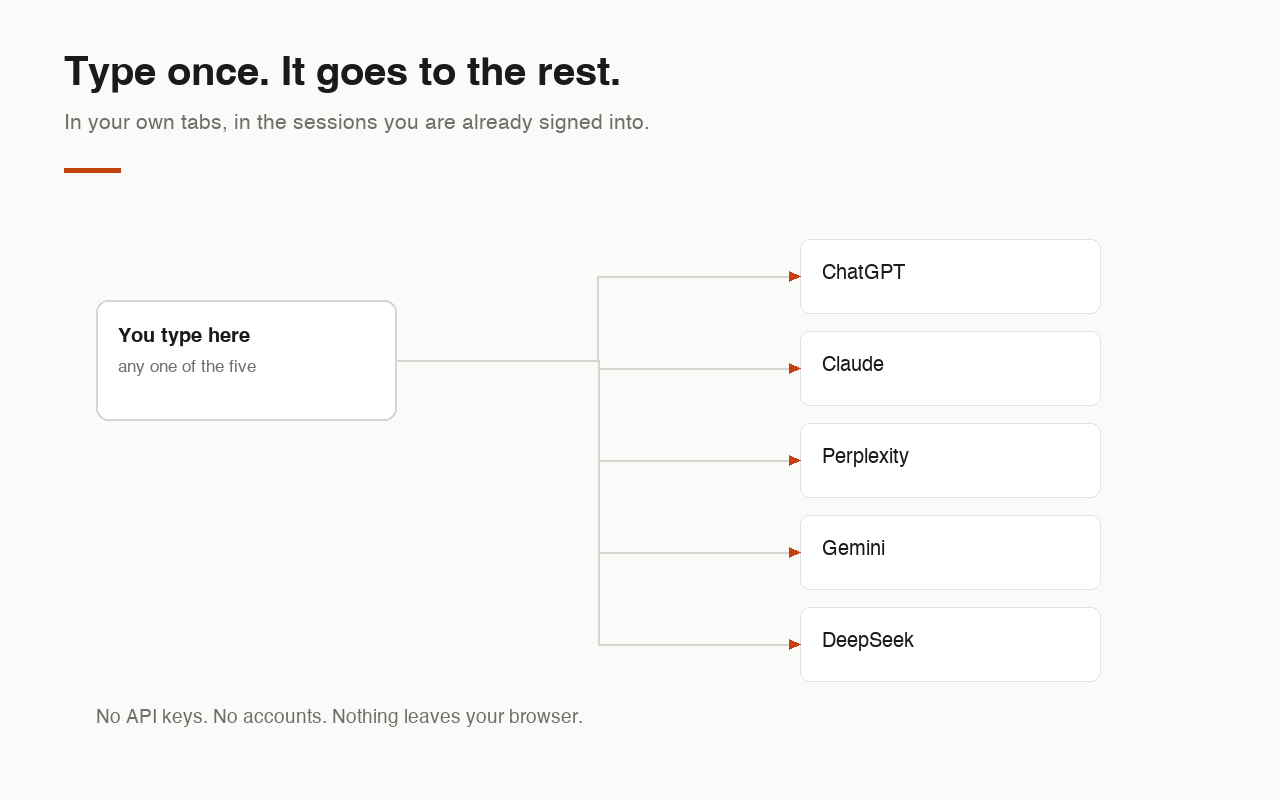
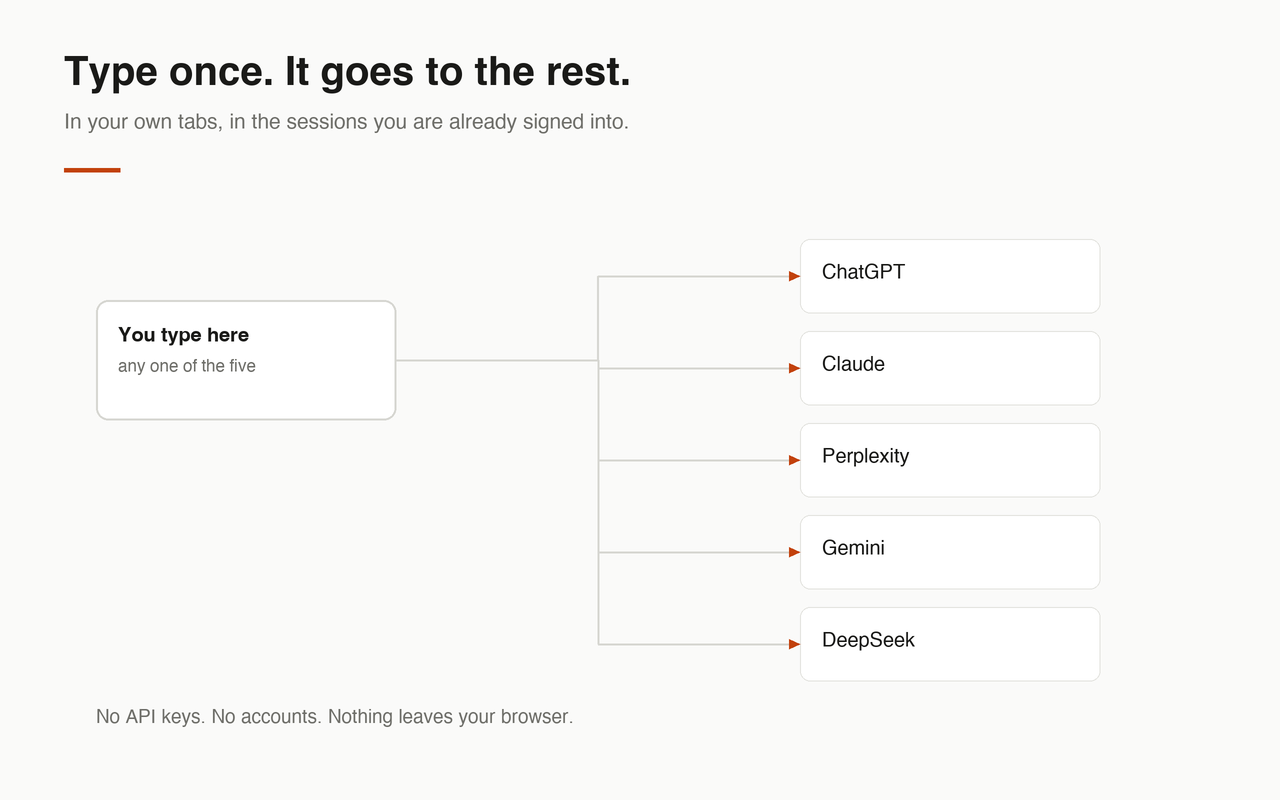
docs: recapture every image at retina resolution
The GIF and the metric shots were soft. The cause was upstream of the encoder:
frames were captured at deviceScaleFactor 1 and then shrunk to roughly a third
of their size in the composition, so the text they exist to show was being
thrown away before the GIF was ever written.

Recaptured at the source instead of sharpening after the fact:

- Broadcast frames at deviceScaleFactor 2 (2560x1600 each), panel at 3
  (1260x2211), fan-out drawn at 2x rather than upscaled from a 1280x800
  raster.
- Metric shots re-cropped from the native 5120px dashboard capture instead of
  being downscaled to 1800px first.
- GIF palette raised to 200 colours; 128 banded the screenshots' soft greys.

Sizes are then capped where the page cannot use the detail: images at 2100px
and the GIF at 1700px, against a 676px render width, so everything sits near
3x — sharp on a retina display without shipping pixels nobody can see. The
page is 2.2MB, and every declared width/height matches its file, so nothing
shifts as images load.

Store frames are composed at 2x and downsampled to the required 1280x800, so
heading text and screenshot get the same resampling and neither looks pasted
onto the other.

Verified in a browser at 1440px: all six load, paint real pixels, and report
2.5-3.1x. The 2x frames are in ../whileai-recordings/, and the rebuild command
including the cap step is documented in scripts/make-demo-gif5.mjs.

diff --git a/index.html b/index.html
@@ -67,17 +67,17 @@
 </header>
 
 <figure class="shot wide">
-  <img src="img/fanout.png" alt="A diagram: you type in any one of the five AI sites, and the prompt fans out to ChatGPT, Claude, Perplexity, Gemini and DeepSeek." width="1600" height="1000" />
+  <img src="img/fanout.png" alt="A diagram: you type in any one of the five AI sites, and the prompt fans out to ChatGPT, Claude, Perplexity, Gemini and DeepSeek." width="2100" height="1312" />
 </figure>
 
 <figure class="shot wide">
-  <img src="img/demo5.gif" alt="A recording of the extension in use: a prompt typed in ChatGPT arrives on its own in Claude, Perplexity, Gemini and DeepSeek, and all five answer." width="1556" height="538" loading="lazy" />
+  <img src="img/demo5.gif" alt="A recording of the extension in use: a prompt typed in ChatGPT arrives on its own in Claude, Perplexity, Gemini and DeepSeek, and all five answer." width="1700" height="607" loading="lazy" />
   <figcaption>Not a mock-up — a recording of the extension running. The prompt
   was typed only in the ChatGPT tab; the other four received it on their own.</figcaption>
 </figure>
 
 <figure class="shot panel">
-  <img src="img/popup.png" alt="The whileAI panel: ChatGPT, Claude, Perplexity, Gemini and DeepSeek each listed as ready with their own toggle, above waiting-time statistics." width="615" height="1208" />
+  <img src="img/popup.png" alt="The whileAI panel: ChatGPT, Claude, Perplexity, Gemini and DeepSeek each listed as ready with their own toggle, above waiting-time statistics." width="939" height="2211" />
   <figcaption>Pick which AIs get the prompt. The panel also shows what you have
   waited so far.</figcaption>
 </figure>
@@ -105,18 +105,18 @@
 </div>
 
 <figure class="shot wide">
-  <img src="img/dashboard.png" alt="The whileAI dashboard: total time waiting, number of answers, average wait, and a chart of waiting time per day split by AI." width="1800" height="1125" />
+  <img src="img/dashboard.png" alt="The whileAI dashboard: total time waiting, number of answers, average wait, and a chart of waiting time per day split by AI." width="2100" height="951" />
   <figcaption>The dashboard. Free for everyone, and exportable.</figcaption>
 </figure>
 
 <figure class="shot wide">
-  <img src="img/platforms.png" alt="A per-AI table: responses, total wait, typical wait, longest wait and how often the tab was left, for ChatGPT, Claude, DeepSeek, Gemini and Perplexity." width="1800" height="772" loading="lazy" />
+  <img src="img/platforms.png" alt="A per-AI table: responses, total wait, typical wait, longest wait and how often the tab was left, for ChatGPT, Claude, DeepSeek, Gemini and Perplexity." width="2100" height="900" loading="lazy" />
   <figcaption>Which AI is actually slower, per answer and in total — plus your
   ten longest waits.</figcaption>
 </figure>
 
 <figure class="shot wide">
-  <img src="img/attention.png" alt="Attention while waiting: times you left the tab, time spent on another tab, time the tab was in the background, and how many responses you waited out without leaving." width="1800" height="601" loading="lazy" />
+  <img src="img/attention.png" alt="Attention while waiting: times you left the tab, time spent on another tab, time the tab was in the background, and how many responses you waited out without leaving." width="2100" height="702" loading="lazy" />
   <figcaption>What waiting does to your attention — how often you tabbed away,
   and what that adds up to.</figcaption>
 </figure>
